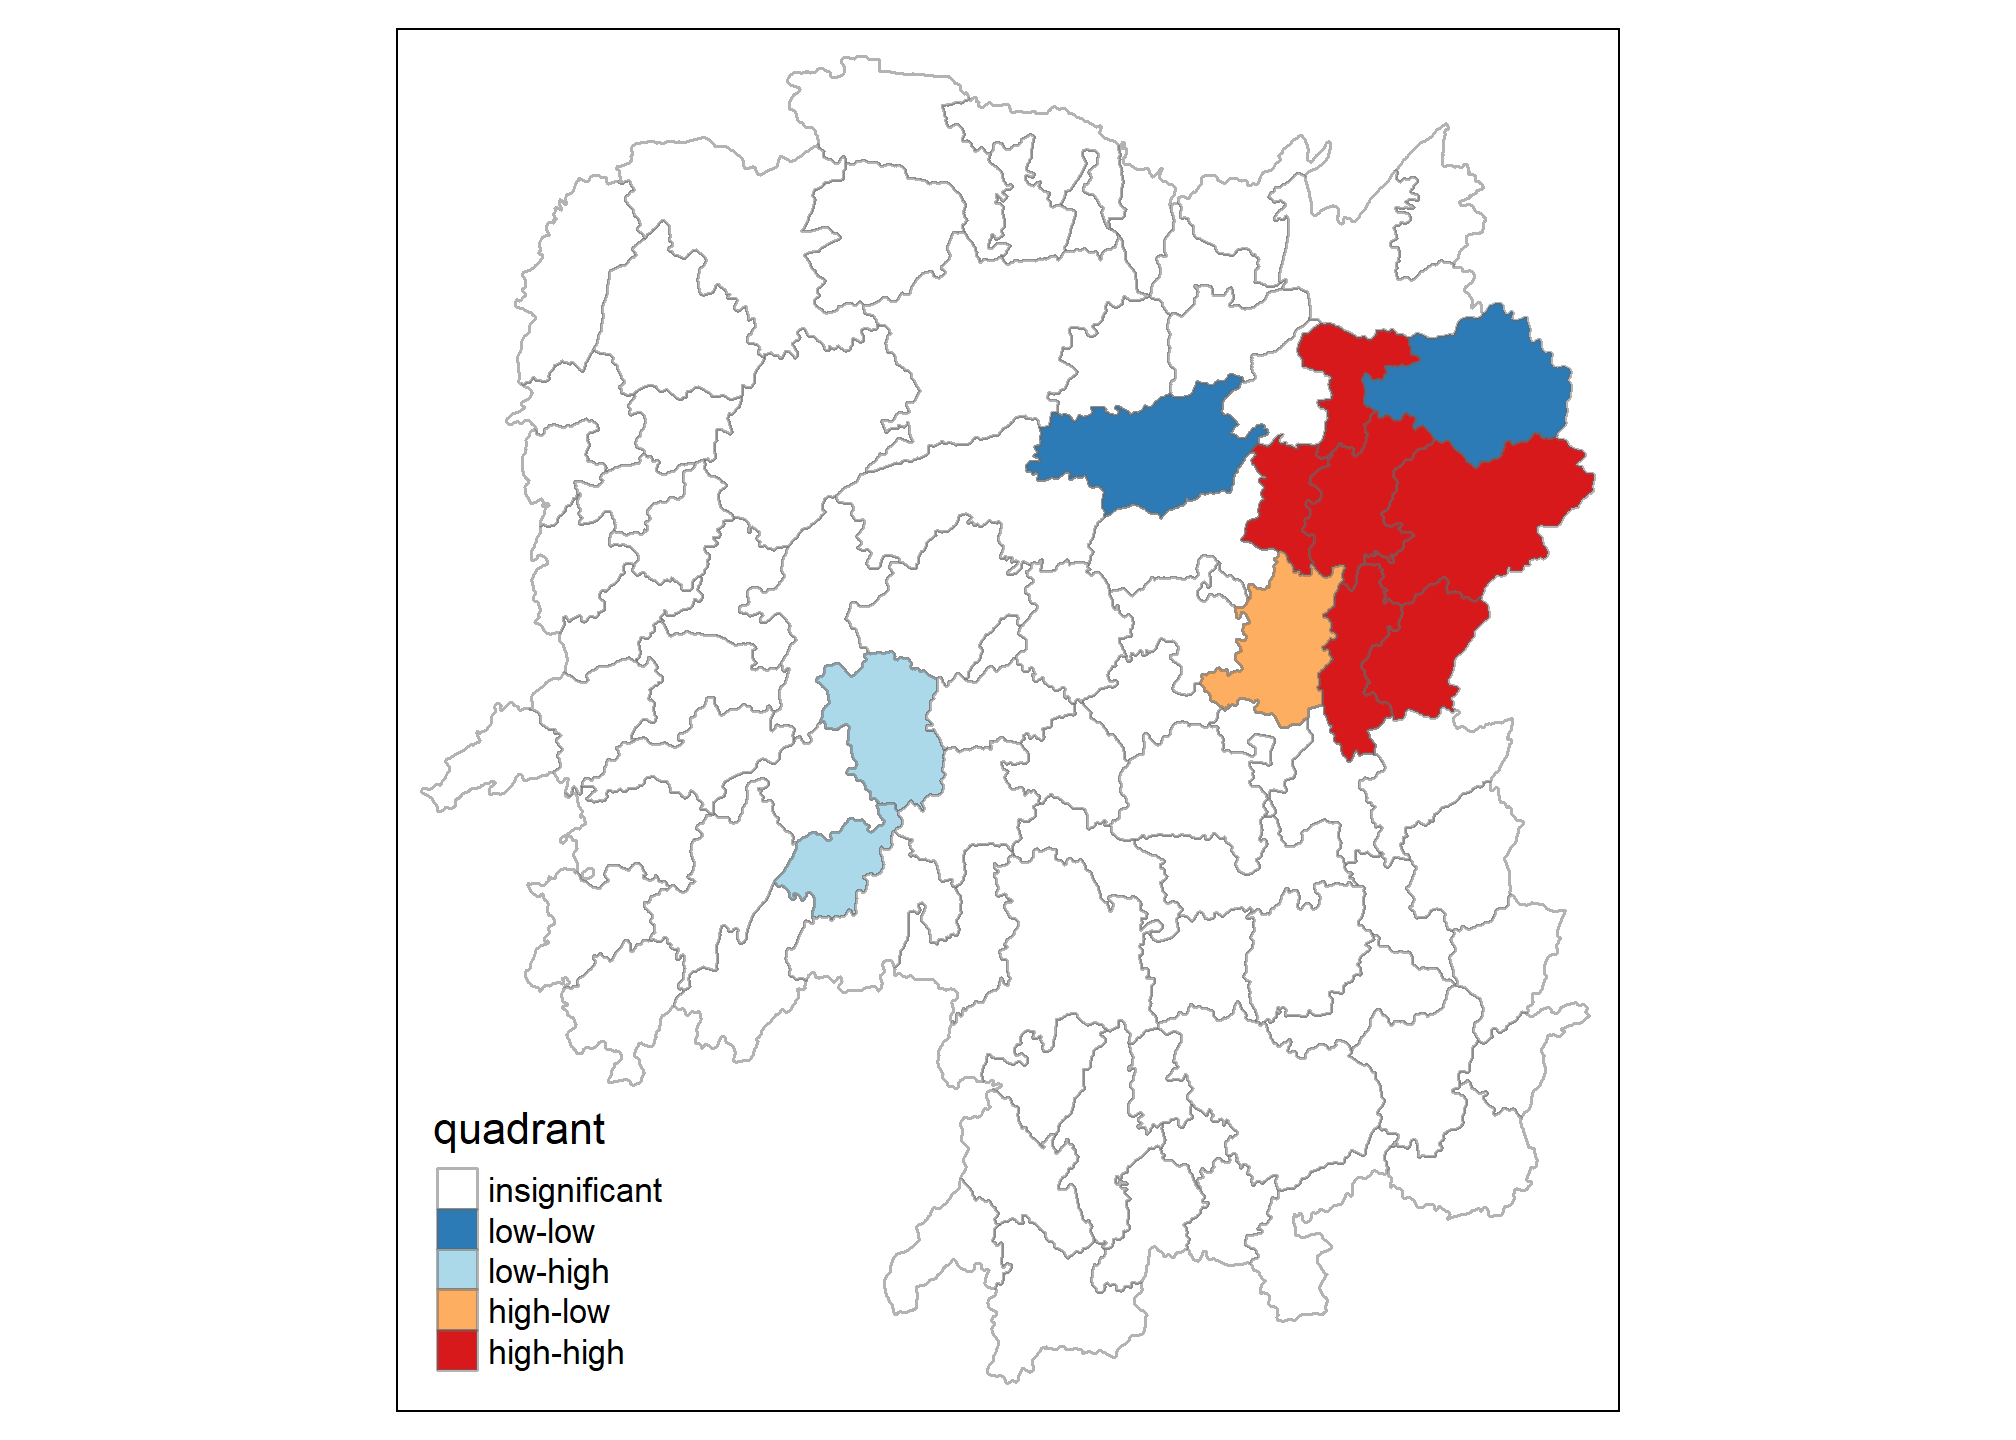
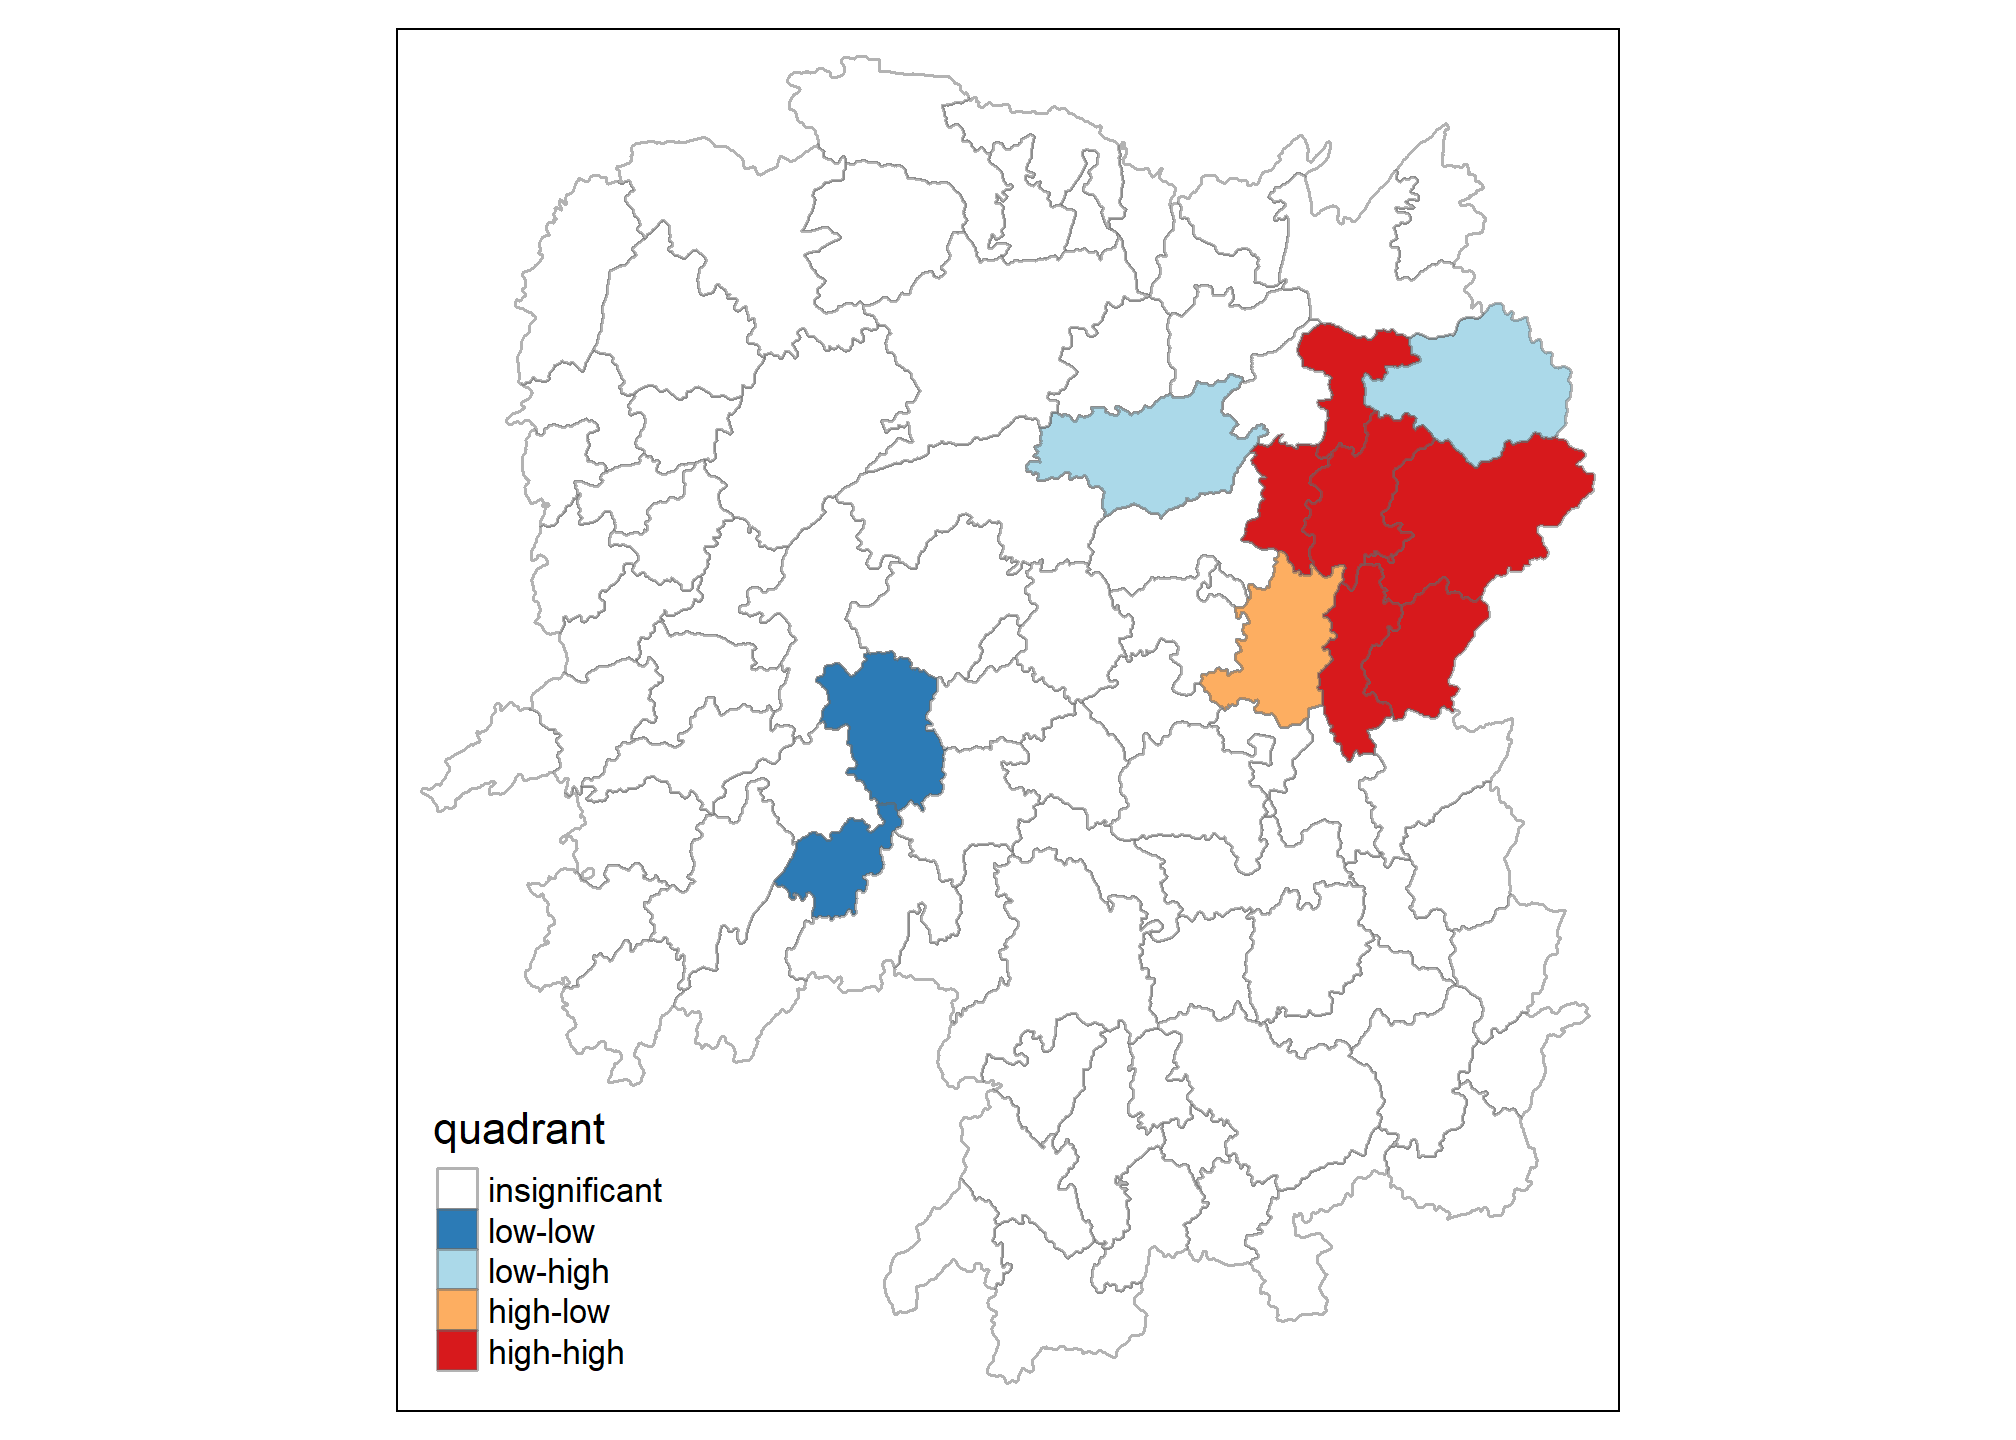
Commit the revised version of Chapter 4.

Changed region(s): [[0.375, 0.4375, 0.4688, 0.6562], [0.5, 0.25, 0.625, 0.375], [0.6562, 0.2188, 0.7812, 0.3438]]

diff --git a/_book/chap04.html b/_book/chap04.html
@@ -6,7 +6,7 @@
 
 <meta name="viewport" content="width=device-width, initial-scale=1.0, user-scalable=yes">
 
-<meta name="dcterms.date" content="2022-11-23">
+<meta name="dcterms.date" content="2022-11-25">
 
 <title>R for Geospatial Data Science and Analytics - 4&nbsp; Global and Local Measures of Spatial Autocorrelation</title>
 <style>
@@ -276,7 +276,7 @@ code span.wa { color: #60a0b0; font-weight: bold; font-style: italic; } /* Warni
     <div>
     <div class="quarto-title-meta-heading">Published</div>
     <div class="quarto-title-meta-contents">
-      <p class="date">November 23, 2022</p>
+      <p class="date">November 25, 2022</p>
     </div>
   </div>
     
@@ -370,7 +370,8 @@ Geodetic CRS:  WGS 84</code></pre>
 <h3 data-number="4.3.3" class="anchored" data-anchor-id="performing-relational-join"><span class="header-section-number">4.3.3</span> Performing relational join</h3>
 <p>The code chunk below will be used to update the attribute table of <em>hunan</em>’s SpatialPolygonsDataFrame with the attribute fields of <em>hunan2012</em> dataframe. This is performed by using <em>left_join()</em> of <strong>dplyr</strong> package.</p>
 <div class="cell">
-<div class="sourceCode cell-code" id="cb5"><pre class="sourceCode r code-with-copy"><code class="sourceCode r"><span id="cb5-1"><a href="#cb5-1" aria-hidden="true" tabindex="-1"></a>hunan <span class="ot">&lt;-</span> <span class="fu">left_join</span>(hunan,hunan2012)</span></code><button title="Copy to Clipboard" class="code-copy-button"><i class="bi"></i></button></pre></div>
+<div class="sourceCode cell-code" id="cb5"><pre class="sourceCode r code-with-copy"><code class="sourceCode r"><span id="cb5-1"><a href="#cb5-1" aria-hidden="true" tabindex="-1"></a>hunan <span class="ot">&lt;-</span> <span class="fu">left_join</span>(hunan,hunan2012) <span class="sc">%&gt;%</span></span>
+<span id="cb5-2"><a href="#cb5-2" aria-hidden="true" tabindex="-1"></a>  <span class="fu">select</span>(<span class="dv">1</span><span class="sc">:</span><span class="dv">4</span>, <span class="dv">7</span>, <span class="dv">15</span>)</span></code><button title="Copy to Clipboard" class="code-copy-button"><i class="bi"></i></button></pre></div>
 </div>
 </section>
 <section id="visualising-regional-development-indicator" class="level3" data-number="4.3.4">
@@ -429,7 +430,7 @@ Link number distribution:
 85 with 11 links</code></pre>
 </div>
 </div>
-<p>The summary report above shows that there are 88 area units in Hunan. The most connected area unit has 11 neighbours. There are two area units with only one heighbours.</p>
+<p>The summary report above shows that there are 88 area units in Hunan. The most connected area unit has 11 neighbours. There are two area units with only one neighbours.</p>
 </section>
 <section id="row-standardised-weights-matrix" class="level3" data-number="4.4.2">
 <h3 data-number="4.4.2" class="anchored" data-anchor-id="row-standardised-weights-matrix"><span class="header-section-number">4.4.2</span> Row-standardised weights matrix</h3>
@@ -949,8 +950,8 @@ Zixing        -7.6849e-01 -8.8210e-02  9.4057e-01 -7.0144e-01         0.4830</co
 <p>These four command lines define the high-high, low-low, low-high and high-low categories.</p>
 <div class="cell">
 <div class="sourceCode cell-code" id="cb54"><pre class="sourceCode r code-with-copy"><code class="sourceCode r"><span id="cb54-1"><a href="#cb54-1" aria-hidden="true" tabindex="-1"></a>quadrant[DV <span class="sc">&gt;</span><span class="dv">0</span> <span class="sc">&amp;</span> C_mI<span class="sc">&gt;</span><span class="dv">0</span>] <span class="ot">&lt;-</span> <span class="dv">4</span>      </span>
-<span id="cb54-2"><a href="#cb54-2" aria-hidden="true" tabindex="-1"></a>quadrant[DV <span class="sc">&lt;</span><span class="dv">0</span> <span class="sc">&amp;</span> C_mI<span class="sc">&lt;</span><span class="dv">0</span>] <span class="ot">&lt;-</span> <span class="dv">1</span>      </span>
-<span id="cb54-3"><a href="#cb54-3" aria-hidden="true" tabindex="-1"></a>quadrant[DV <span class="sc">&lt;</span><span class="dv">0</span> <span class="sc">&amp;</span> C_mI<span class="sc">&gt;</span><span class="dv">0</span>] <span class="ot">&lt;-</span> <span class="dv">2</span></span>
+<span id="cb54-2"><a href="#cb54-2" aria-hidden="true" tabindex="-1"></a>quadrant[DV <span class="sc">&lt;</span><span class="dv">0</span> <span class="sc">&amp;</span> C_mI<span class="sc">&lt;</span><span class="dv">0</span>] <span class="ot">&lt;-</span> <span class="dv">2</span>      </span>
+<span id="cb54-3"><a href="#cb54-3" aria-hidden="true" tabindex="-1"></a>quadrant[DV <span class="sc">&lt;</span><span class="dv">0</span> <span class="sc">&amp;</span> C_mI<span class="sc">&gt;</span><span class="dv">0</span>] <span class="ot">&lt;-</span> <span class="dv">1</span></span>
 <span id="cb54-4"><a href="#cb54-4" aria-hidden="true" tabindex="-1"></a>quadrant[DV <span class="sc">&gt;</span><span class="dv">0</span> <span class="sc">&amp;</span> C_mI<span class="sc">&lt;</span><span class="dv">0</span>] <span class="ot">&lt;-</span> <span class="dv">3</span></span></code><button title="Copy to Clipboard" class="code-copy-button"><i class="bi"></i></button></pre></div>
 </div>
 <p>Lastly, places non-significant Moran in the category 0.</p>
@@ -964,8 +965,8 @@ Zixing        -7.6849e-01 -8.8210e-02  9.4057e-01 -7.0144e-01         0.4830</co
 <span id="cb56-3"><a href="#cb56-3" aria-hidden="true" tabindex="-1"></a>C_mI <span class="ot">&lt;-</span> localMI[,<span class="dv">1</span>] <span class="sc">-</span> <span class="fu">mean</span>(localMI[,<span class="dv">1</span>])    </span>
 <span id="cb56-4"><a href="#cb56-4" aria-hidden="true" tabindex="-1"></a>signif <span class="ot">&lt;-</span> <span class="fl">0.05</span>       </span>
 <span id="cb56-5"><a href="#cb56-5" aria-hidden="true" tabindex="-1"></a>quadrant[DV <span class="sc">&gt;</span><span class="dv">0</span> <span class="sc">&amp;</span> C_mI<span class="sc">&gt;</span><span class="dv">0</span>] <span class="ot">&lt;-</span> <span class="dv">4</span>      </span>
-<span id="cb56-6"><a href="#cb56-6" aria-hidden="true" tabindex="-1"></a>quadrant[DV <span class="sc">&lt;</span><span class="dv">0</span> <span class="sc">&amp;</span> C_mI<span class="sc">&lt;</span><span class="dv">0</span>] <span class="ot">&lt;-</span> <span class="dv">1</span>      </span>
-<span id="cb56-7"><a href="#cb56-7" aria-hidden="true" tabindex="-1"></a>quadrant[DV <span class="sc">&lt;</span><span class="dv">0</span> <span class="sc">&amp;</span> C_mI<span class="sc">&gt;</span><span class="dv">0</span>] <span class="ot">&lt;-</span> <span class="dv">2</span></span>
+<span id="cb56-6"><a href="#cb56-6" aria-hidden="true" tabindex="-1"></a>quadrant[DV <span class="sc">&lt;</span><span class="dv">0</span> <span class="sc">&amp;</span> C_mI<span class="sc">&lt;</span><span class="dv">0</span>] <span class="ot">&lt;-</span> <span class="dv">2</span>      </span>
+<span id="cb56-7"><a href="#cb56-7" aria-hidden="true" tabindex="-1"></a>quadrant[DV <span class="sc">&lt;</span><span class="dv">0</span> <span class="sc">&amp;</span> C_mI<span class="sc">&gt;</span><span class="dv">0</span>] <span class="ot">&lt;-</span> <span class="dv">1</span></span>
 <span id="cb56-8"><a href="#cb56-8" aria-hidden="true" tabindex="-1"></a>quadrant[DV <span class="sc">&gt;</span><span class="dv">0</span> <span class="sc">&amp;</span> C_mI<span class="sc">&lt;</span><span class="dv">0</span>] <span class="ot">&lt;-</span> <span class="dv">3</span></span>
 <span id="cb56-9"><a href="#cb56-9" aria-hidden="true" tabindex="-1"></a>quadrant[localMI[,<span class="dv">5</span>]<span class="sc">&gt;</span>signif] <span class="ot">&lt;-</span> <span class="dv">0</span></span></code><button title="Copy to Clipboard" class="code-copy-button"><i class="bi"></i></button></pre></div>
 </div>
